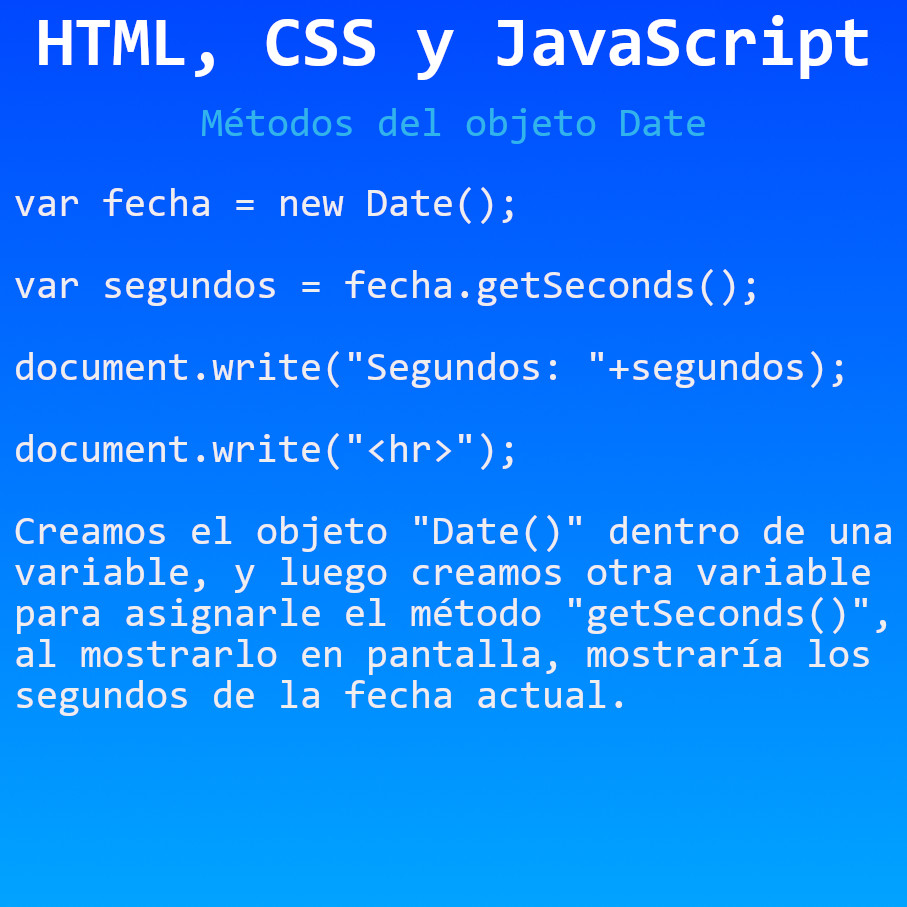
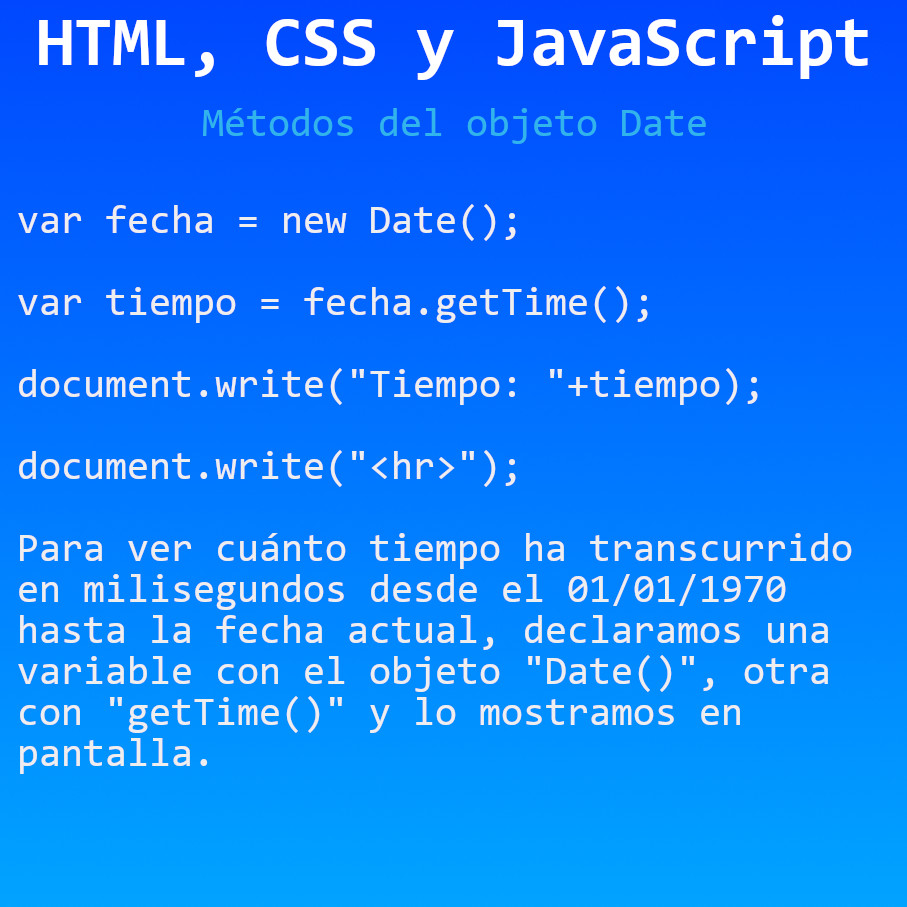
Métodos del objeto Date
Métodos del objeto Date en JavaScript

diff --git a/HTML, CSS y JavaScript/Métodos del objeto Date/js/funciones.js b/HTML, CSS y JavaScript/Métodos del objeto Date/js/funciones.js
@@ -39,3 +39,10 @@ var segundos = fecha.getSeconds();
 document.write("Segundos: "+segundos);
 // SALTO DE LÍNEA
 document.write("<hr>");
+// VER TIEMPO TRANSCURRIDO EN MILISEGUNDOS DESDE 1970
+// coger segundos de la fecha actual
+var tiempo = fecha.getTime();
+// MOSTRAR EN PANTALLA
+document.write("Tiempo: "+tiempo);
+// SALTO DE LÍNEA
+document.write("<hr>");
